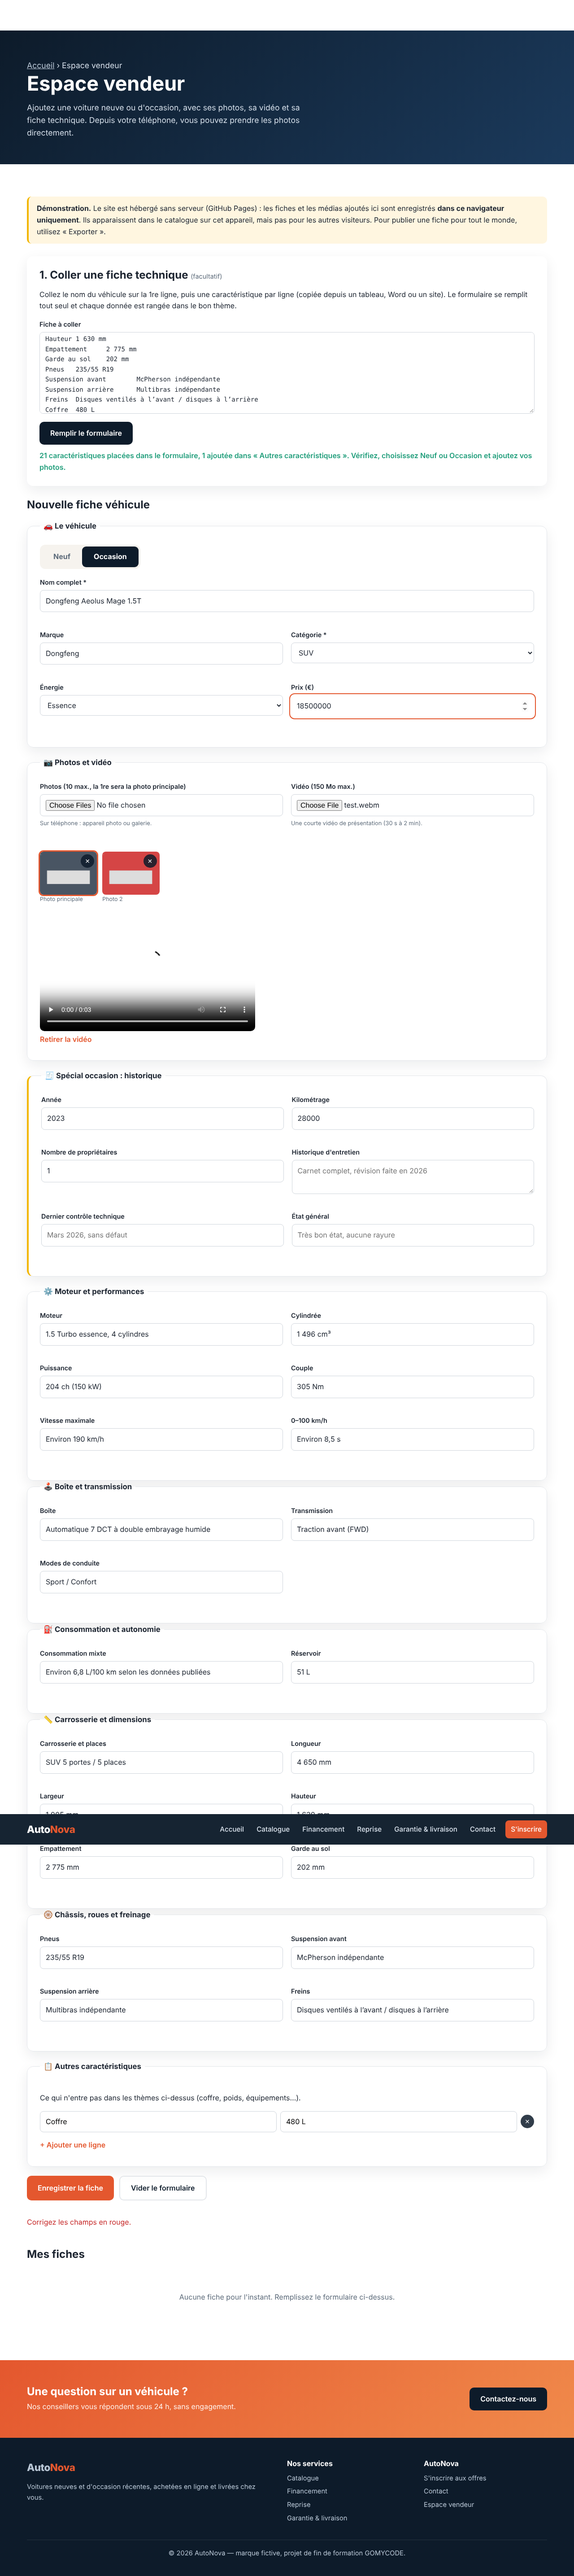
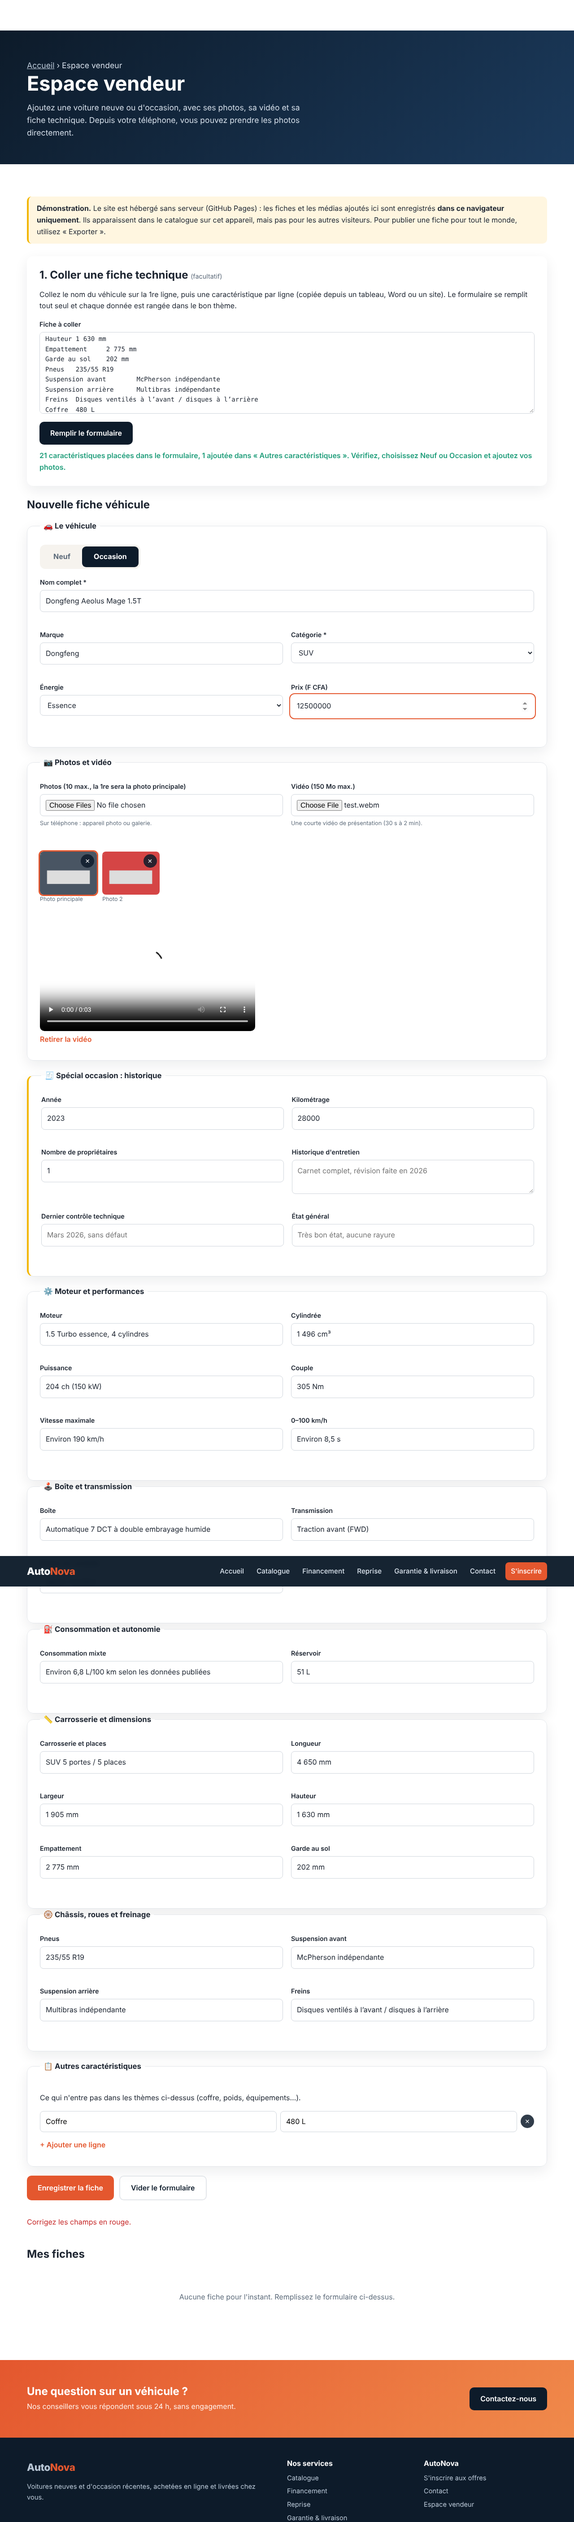
Prix en francs CFA sur tout le site (catalogue, fiches, financement, reprise, inscription)
Claude-Session: https://claude.ai/code/session_01Sactw3NwgDJNmpa7guf2o6

diff --git a/js/vehicules.js b/js/vehicules.js
@@ -114,49 +114,49 @@ const STATIC_VEHICLES = [
     details: [],
   },
   {
-    id: "nova-city", name: "Nova City", brand: "Nova", type: "citadine", energy: "Essence", isNew: true, year: 2026, km: 0, price: 15990,
+    id: "nova-city", name: "Nova City", brand: "Nova", type: "citadine", energy: "Essence", isNew: true, year: 2026, km: 0, price: 10500000,
     image: "images/citadine-bleue.svg",
     specs: spec([["Type", "Citadine 5 portes / 4 places"], ["Moteur", "1.0 essence, 3 cylindres"], ["Puissance", "75 ch"], ["Boîte", "Manuelle 5 rapports"], ["Consommation mixte", "5,1 L/100 km"], ["Réservoir", "35 L"], ["Longueur", "3 650 mm"], ["Largeur", "1 660 mm"]]),
     details: [["Garantie constructeur", "3 ans"], ["Délai de livraison", "2 semaines"]],
   },
   {
-    id: "nova-city-sun", name: "Nova City Sun", brand: "Nova", type: "citadine", energy: "Hybride", isNew: false, year: 2024, km: 12000, price: 13490,
+    id: "nova-city-sun", name: "Nova City Sun", brand: "Nova", type: "citadine", energy: "Hybride", isNew: false, year: 2024, km: 12000, price: 8850000,
     image: "images/citadine-jaune.svg",
     specs: spec([["Type", "Citadine 5 portes / 4 places"], ["Moteur", "1.2 hybride"], ["Puissance", "90 ch"], ["Boîte", "Automatique"], ["Consommation mixte", "4,2 L/100 km"], ["Réservoir", "36 L"], ["Longueur", "3 700 mm"], ["Largeur", "1 680 mm"]]),
     details: [["Année", "2024"], ["Kilométrage", "12 000 km"], ["Nombre de propriétaires", "1"], ["Historique d'entretien", "Carnet complet"]],
   },
   {
-    id: "nova-line", name: "Nova Line", brand: "Nova", type: "berline", energy: "Diesel", isNew: false, year: 2023, km: 34000, price: 21900,
+    id: "nova-line", name: "Nova Line", brand: "Nova", type: "berline", energy: "Diesel", isNew: false, year: 2023, km: 34000, price: 14350000,
     image: "images/berline-grise.svg",
     specs: spec([["Type", "Berline 4 portes / 5 places"], ["Moteur", "1.6 diesel, 4 cylindres"], ["Puissance", "130 ch"], ["Boîte", "Manuelle 6 rapports"], ["Consommation mixte", "4,9 L/100 km"], ["Réservoir", "50 L"], ["Longueur", "4 600 mm"], ["Largeur", "1 800 mm"]]),
     details: [["Année", "2023"], ["Kilométrage", "34 000 km"], ["Nombre de propriétaires", "1"], ["Dernier contrôle technique", "Janvier 2026, sans défaut"]],
   },
   {
-    id: "nova-line-pure", name: "Nova Line Pure", brand: "Nova", type: "berline", energy: "Hybride", isNew: true, year: 2026, km: 0, price: 29990,
+    id: "nova-line-pure", name: "Nova Line Pure", brand: "Nova", type: "berline", energy: "Hybride", isNew: true, year: 2026, km: 0, price: 19650000,
     image: "images/berline-blanche.svg",
     specs: spec([["Type", "Berline 4 portes / 5 places"], ["Moteur", "1.8 hybride"], ["Puissance", "140 ch"], ["Boîte", "Automatique"], ["Consommation mixte", "4,5 L/100 km"], ["Réservoir", "43 L"], ["Longueur", "4 630 mm"], ["Largeur", "1 790 mm"]]),
     details: [["Garantie constructeur", "5 ans"], ["Délai de livraison", "3 à 4 semaines"]],
   },
   {
-    id: "nova-trek", name: "Nova Trek", brand: "Nova", type: "suv", energy: "Hybride", isNew: true, year: 2026, km: 0, price: 34500,
+    id: "nova-trek", name: "Nova Trek", brand: "Nova", type: "suv", energy: "Hybride", isNew: true, year: 2026, km: 0, price: 22650000,
     image: "images/suv-rouge.svg",
     specs: spec([["Type", "SUV 5 portes / 5 places"], ["Moteur", "1.6 hybride rechargeable"], ["Puissance", "180 ch"], ["Boîte", "Automatique"], ["Consommation mixte", "2,0 L/100 km"], ["Réservoir", "45 L"], ["Longueur", "4 500 mm"], ["Largeur", "1 860 mm"]]),
     details: [["Garantie constructeur", "5 ans"], ["Délai de livraison", "4 semaines"]],
   },
   {
-    id: "nova-trek-black", name: "Nova Trek Black", brand: "Nova", type: "suv", energy: "Diesel", isNew: false, year: 2022, km: 51000, price: 24900,
+    id: "nova-trek-black", name: "Nova Trek Black", brand: "Nova", type: "suv", energy: "Diesel", isNew: false, year: 2022, km: 51000, price: 16350000,
     image: "images/suv-noir.svg",
     specs: spec([["Type", "SUV 5 portes / 5 places"], ["Moteur", "2.0 diesel, 4 cylindres"], ["Puissance", "150 ch"], ["Boîte", "Automatique 8 rapports"], ["Consommation mixte", "5,8 L/100 km"], ["Réservoir", "55 L"], ["Longueur", "4 520 mm"], ["Largeur", "1 860 mm"]]),
     details: [["Année", "2022"], ["Kilométrage", "51 000 km"], ["Nombre de propriétaires", "2"], ["Historique d'entretien", "Révisions en concession"]],
   },
   {
-    id: "nova-e", name: "Nova E", brand: "Nova", type: "electrique", energy: "Électrique", isNew: true, year: 2026, km: 0, price: 31900,
+    id: "nova-e", name: "Nova E", brand: "Nova", type: "electrique", energy: "Électrique", isNew: true, year: 2026, km: 0, price: 20950000,
     image: "images/electrique-verte.svg",
     specs: spec([["Type", "Compacte 5 portes / 5 places"], ["Moteur", "Électrique"], ["Puissance", "204 ch"], ["Boîte", "Automatique"], ["Autonomie", "420 km"], ["Batterie", "60 kWh"], ["Longueur", "4 300 mm"], ["Largeur", "1 810 mm"]]),
     details: [["Garantie constructeur", "5 ans, batterie 8 ans"], ["Délai de livraison", "3 semaines"]],
   },
   {
-    id: "nova-e-long-range", name: "Nova E Long Range", brand: "Nova", type: "electrique", energy: "Électrique", isNew: false, year: 2024, km: 9000, price: 36900,
+    id: "nova-e-long-range", name: "Nova E Long Range", brand: "Nova", type: "electrique", energy: "Électrique", isNew: false, year: 2024, km: 9000, price: 24200000,
     image: "images/electrique-bleue.svg",
     specs: spec([["Type", "Compacte 5 portes / 5 places"], ["Moteur", "Électrique"], ["Puissance", "231 ch"], ["Boîte", "Automatique"], ["Autonomie", "540 km"], ["Batterie", "77 kWh"], ["Longueur", "4 300 mm"], ["Largeur", "1 810 mm"]]),
     details: [["Année", "2024"], ["Kilométrage", "9 000 km"], ["Nombre de propriétaires", "1"], ["État général", "Comme neuve"]],

diff --git a/inscription.html b/inscription.html
@@ -30,7 +30,7 @@
     <section class="page-hero">
       <div class="container">
         <p class="eyebrow">Offre de lancement</p>
-        <h1>Inscrivez-vous et recevez 500 € de remise sur votre première voiture</h1>
+        <h1>Inscrivez-vous et recevez 300 000 F CFA de remise sur votre première voiture</h1>
         <p>Recevez les nouveaux arrivages en avant-première, des offres réservées aux inscrits, et réservez un essai gratuit près de chez vous.</p>
       </div>
     </section>
@@ -40,7 +40,7 @@
         <div>
           <h2>Ce que vous recevez</h2>
           <ul class="benefits">
-            <li><span class="feature-icon" aria-hidden="true">🎁</span><div><strong>500 € de remise</strong><br>sur votre premier achat, valable 3 mois.</div></li>
+            <li><span class="feature-icon" aria-hidden="true">🎁</span><div><strong>300 000 F CFA de remise</strong><br>sur votre premier achat, valable 3 mois.</div></li>
             <li><span class="feature-icon" aria-hidden="true">🔔</span><div><strong>Les nouveautés en premier</strong><br>une alerte dès qu'un modèle qui vous intéresse arrive.</div></li>
             <li><span class="feature-icon" aria-hidden="true">🚙</span><div><strong>Un essai gratuit</strong><br>de 30 minutes, sans engagement.</div></li>
             <li><span class="feature-icon" aria-hidden="true">✉</span><div><strong>Un e-mail par mois, au plus</strong><br>et désinscription en un clic.</div></li>
@@ -89,10 +89,10 @@
             <div class="field">
               <label for="budget">Budget</label>
               <select id="budget" name="budget">
-                <option>Moins de 15 000 €</option>
-                <option selected>15 000 – 25 000 €</option>
-                <option>25 000 – 35 000 €</option>
-                <option>Plus de 35 000 €</option>
+                <option>Moins de 10 millions F CFA</option>
+                <option selected>10 – 16 millions F CFA</option>
+                <option>16 – 23 millions F CFA</option>
+                <option>Plus de 23 millions F CFA</option>
               </select>
             </div>
             <div class="field full checkbox-field">

diff --git a/js/reprise.js b/js/reprise.js
@@ -9,7 +9,7 @@ const result = document.getElementById("tradein-result");
 const resultValue = document.getElementById("tradein-value");
 const resultRange = document.getElementById("tradein-range");
 
-const baseValues = { citadine: 16000, berline: 26000, suv: 32000, electrique: 34000 };
+const baseValues = { citadine: 10500000, berline: 17050000, suv: 21000000, electrique: 22300000 }; // en F CFA
 const conditionFactor = { excellent: 1, bon: 0.9, moyen: 0.75 };
 
 function estimate({ category, year, km, condition }) {
@@ -18,7 +18,7 @@ function estimate({ category, year, km, condition }) {
   value *= Math.pow(0.85, age);               // −15 % par an
   value *= Math.max(0.35, 1 - km / 300000);   // décote liée au kilométrage
   value *= conditionFactor[condition];
-  return Math.max(500, Math.round(value / 100) * 100);
+  return Math.max(300000, Math.round(value / 50000) * 50000);
 }
 
 function showError(field, message) {

diff --git a/financement.html b/financement.html
@@ -40,8 +40,8 @@
         <form class="panel" aria-labelledby="calc-title" onsubmit="return false">
           <h2 id="calc-title">Simulateur de crédit</h2>
           <div class="field">
-            <label for="car-price">Prix du véhicule (€)</label>
-            <input type="number" id="car-price" min="1000" max="200000" step="100" value="24900" inputmode="numeric">
+            <label for="car-price">Prix du véhicule (F CFA)</label>
+            <input type="number" id="car-price" min="500000" max="200000000" step="50000" value="16350000" inputmode="numeric">
             <span id="calc-error" class="error" role="alert"></span>
           </div>
           <div class="field">

diff --git a/js/financement.js b/js/financement.js
@@ -37,8 +37,8 @@ function update() {
   out.durationLabel.textContent = `${months} mois`;
   out.rateLabel.textContent = `${rate.toFixed(1).replace(".", ",")} %`;
 
-  if (!price || price < 1000 || price > 200000) {
-    out.error.textContent = "Saisissez un prix entre 1 000 € et 200 000 €.";
+  if (!price || price < 500000 || price > 200000000) {
+    out.error.textContent = "Saisissez un prix entre 500 000 et 200 000 000 F CFA.";
     priceInput.parentElement.classList.add("invalid");
     return;
   }

diff --git a/catalogue.html b/catalogue.html
@@ -58,7 +58,7 @@
           </div>
           <div class="field">
             <label for="filter-price">Budget maximum : <output id="price-output" for="filter-price"></output></label>
-            <input type="range" id="filter-price" min="10000" max="40000" step="500" value="40000">
+            <input type="range" id="filter-price" min="0" max="25000000" step="500000" value="25000000">
           </div>
           <div class="field">
             <label for="sort">Trier par</label>

diff --git a/js/catalogue.js b/js/catalogue.js
@@ -113,7 +113,7 @@ if (params.get("type") && typeLabels[params.get("type")]) typeSelect.value = par
 getAllVehicles().then((list) => {
   cars = list;
   // Le curseur de budget s'adapte au véhicule le plus cher
-  const maxPrice = Math.max(40000, ...cars.map((c) => c.price || 0));
+  const maxPrice = Math.max(10000000, ...cars.map((c) => c.price || 0));
   const step = maxPrice > 200000 ? 100000 : 500;
   priceRange.max = Math.ceil(maxPrice / step) * step;
   priceRange.min = 0;

diff --git a/espace-vendeur.html b/espace-vendeur.html
@@ -97,7 +97,7 @@ Puissance	204 ch (150 kW)
                 <span class="error"></span>
               </div>
               <div class="field">
-                <label for="price">Prix (€)</label>
+                <label for="price">Prix (F CFA)</label>
                 <input id="price" name="price" type="number" min="0" inputmode="numeric" placeholder="Vide = « Prix sur demande »">
                 <span class="error"></span>
               </div>

diff --git a/js/main.js b/js/main.js
@@ -38,4 +38,4 @@ document.addEventListener("DOMContentLoaded", () => {
 
 // Formatage commun des prix (utilisé par les autres scripts)
 const formatPrice = (value) =>
-  new Intl.NumberFormat("fr-FR", { style: "currency", currency: "EUR", maximumFractionDigits: 0 }).format(value);
+  new Intl.NumberFormat("fr-FR", { style: "currency", currency: "XOF", maximumFractionDigits: 0 }).format(value);

diff --git a/spec.md b/spec.md
@@ -8,7 +8,7 @@ Site de marketing pour le lancement d'AutoNova, une concession de voitures 100 %
 |---|---|
 | Accueil avec photographie et vue d'ensemble | `index.html` : héros avec image, chiffres clés, « Comment ça marche » |
 | Pages de fonctionnalités liées depuis l'accueil | 4 cartes vers `catalogue`, `financement`, `reprise` et `garantie-livraison` |
-| Landing page d'inscription avec formulaire | `inscription.html` : offre de 500 €, avantages, formulaire validé |
+| Landing page d'inscription avec formulaire | `inscription.html` : offre de 300 000 F CFA, avantages, formulaire validé |
 | Page Contact avec formulaire | `contact.html` |
 | Lien d'appel à l'action vers Contact en bas de chaque page, sauf Contact | Bandeau `.cta-band` sur 6 pages, absent de `contact.html` |
 
@@ -39,7 +39,7 @@ Le catalogue compte 8 véhicules. Les types sont `citadine`, `berline`, `suv` et
 ## 6. Fonctions JavaScript principales
 | Fichier | Fonction | Rôle |
 |---|---|---|
-| `main.js` | `formatPrice(v)` | Formate un prix en euros (`Intl.NumberFormat`) |
+| `main.js` | `formatPrice(v)` | Formate un prix en francs CFA (XOF) (`Intl.NumberFormat`) |
 | `catalogue.js` | `createCarCard(car)` | Construit une carte véhicule (`createElement` et `textContent`) |
 | `catalogue.js` | `render()` | Applique les filtres type, état et budget et le tri, puis met à jour le compteur |
 | `catalogue.js` | `monthlyEstimate(price)` | Mensualité indicative (60 mois, 10 % d'apport, 4,9 %) |
@@ -58,7 +58,7 @@ Le catalogue compte 8 véhicules. Les types sont `citadine`, `berline`, `suv` et
 | Contact | Prénom, e-mail, sujet, message | obligatoires (message : 10 caractères minimum) |
 | Reprise | Année | entre 1995 et l'année en cours |
 | Reprise | Kilométrage | entre 0 et 500 000 km |
-| Financement | Prix | entre 1 000 € et 200 000 € |
+| Financement | Prix | entre 500 000 et 200 000 000 F CFA |
 
 ## 8. Responsive
 Les points de rupture sont 900 px (colonnes empilées), 760 px (menu mobile, formulaires sur une colonne) et 480 px (boutons pleine largeur). Les grilles utilisent `repeat(auto-fit, minmax(250px, 1fr))`.

diff --git a/README.md b/README.md
@@ -12,7 +12,7 @@ Projet de fin de formation (Lab Phase « Marketing Website ») — GOMYCODE, *In
 |---|---|---|
 | Accueil | `index.html` | Grande image, présentation d'AutoNova, chiffres clés, cartes vers chaque page de fonctionnalité, étapes d'achat |
 | Catalogue | `catalogue.html` | 8 véhicules, filtres par type, état et budget, tri, mensualité indicative, bouton « Réserver un essai » |
-| Financement | `financement.html` | Simulateur de crédit (apport, durée, taux), coût total, tableau des formules |
+| Financement | `financement.html` | Simulateur de crédit (apport, durée, taux), prix en francs CFA, coût total, tableau des formules |
 | Reprise | `reprise.html` | Estimation de reprise selon la catégorie, l'année, le kilométrage et l'état, avec validation |
 | Garantie & livraison | `garantie-livraison.html` | Contrôle en 120 points, tableau des garanties, étapes de livraison, FAQ |
 | Inscription | `inscription.html` | Landing page avec offre de bienvenue et formulaire d'inscription validé en JavaScript |
